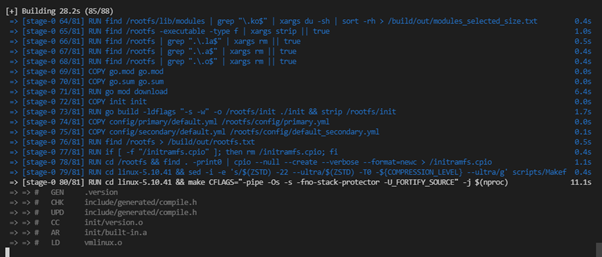
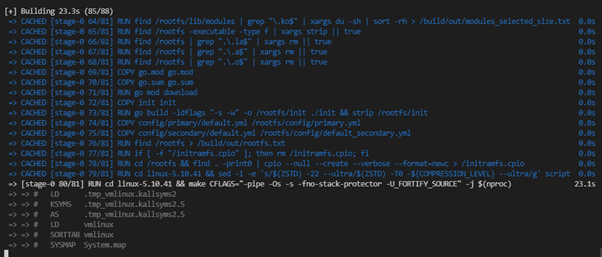
disable compose integration into rootfs, binary size increase is excessive

Changed region(s): [[0.0, 0.0311, 0.9867, 1.0], [0.9867, 0.9339, 1.0, 1.0]]

diff --git a/README.md b/README.md
@@ -7,7 +7,7 @@ SPDX-License-Identifier: Apache-2.0
 
 # os-next
 
-Minimal, declarative, go based real-time capable linux runtime for deployment of containers at the edge, all in < 40MB.
+Minimal, declarative, go based real-time capable linux runtime for deployment of containers at the edge, all in < 45MB.
 
 Built against linux with the PREEMPT_RT patch set, with muslc and GCC.
 
@@ -17,20 +17,26 @@ EFI based boot system, booted directly from UEFI, no bootloader required (or wan
 
 Includes QEMU build target for testing/development. see `deploy/qemu`.
 
-Generic build target has been deployed for full functionality on:
+KConfig kernel configuration is derived from Alpine Linux, tailored for RT and specific module requirements.
+
+Generic build target has been developed and deployed for:
 - [OnLogic Karbon 700](https://www.onlogic.com/k300/)
 - [OnLogic Karbon 300](https://www.onlogic.com/k700/)
 - [Scheider Magellis](https://www.se.com/uk/en/product/HMIBMUSI29D2801/modular-box-pc-hmibm-universal-ssd-dc-windows-10-2-slots/)
 - [IEI DRPC-230](https://www.ieiworld.com/en/product/model.php?II=714)
 - [Hyper-V](https://docs.microsoft.com/en-us/virtualization/hyper-v-on-windows/about/)
 
-Additional platforms may require additional kernel modules to specified to be built and loaded via the primary config (see BUILDING), for full IO functionality. Specific device targets were consolidated to prevent excessive divergence, at the expense of a minor increase in binary size.
+Additional platforms may require additional kernel modules specified to be built and loaded via the primary config (see BUILDING), for full IO functionality. Specific device targets were consolidated to prevent excessive divergence, at the expense of a minor increase in binary size.
 
 ![init](./docs/img/init.png "Init")
 
 ## Building
 
 Build has been converted to build internally with docker/buildkit, full build process is defined in `Dockerfile`. legacy `build.sh` should not be used.
+
+Full source build including kernel compression is runs in ~240 seconds with dual Xeon E5-2670 v3 @ 2.30 GHz. Limiting build factor is the final kernel/initramfs compression, ZSTD parallelism decays signficantly at higher ratios. Fast target will build from scratch in ~45 seconds at the expense of final binary size. 
+
+Cached fast builds for development can be significantly faster (~15 seconds), recommended workflow for a full kernel build is to re-build the fast target, and run the qemu deploy target - see `deploy/qemu`.
 
 ![buildkit build](./docs/img/buildkit.png "Buildkit")
 
